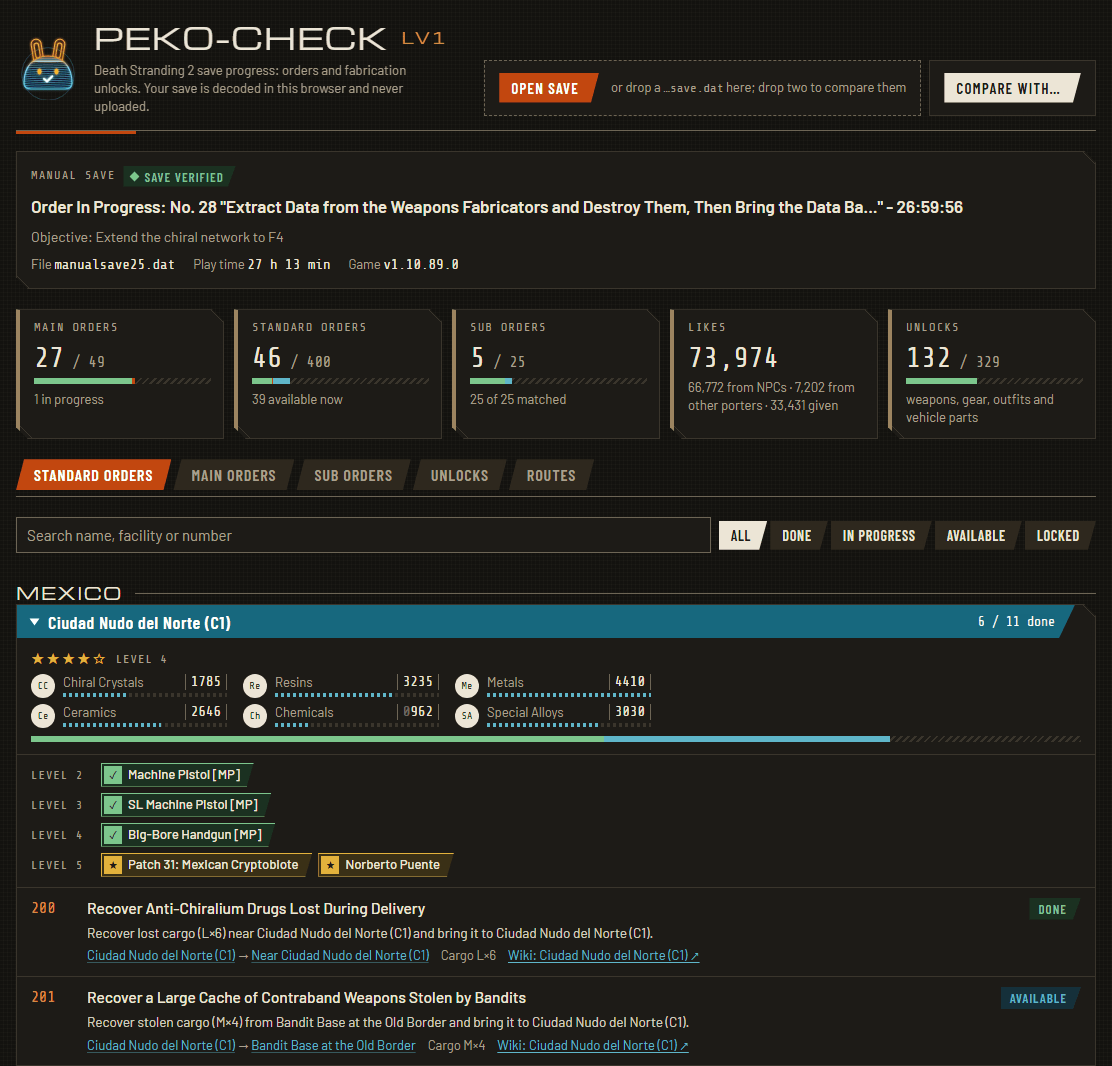
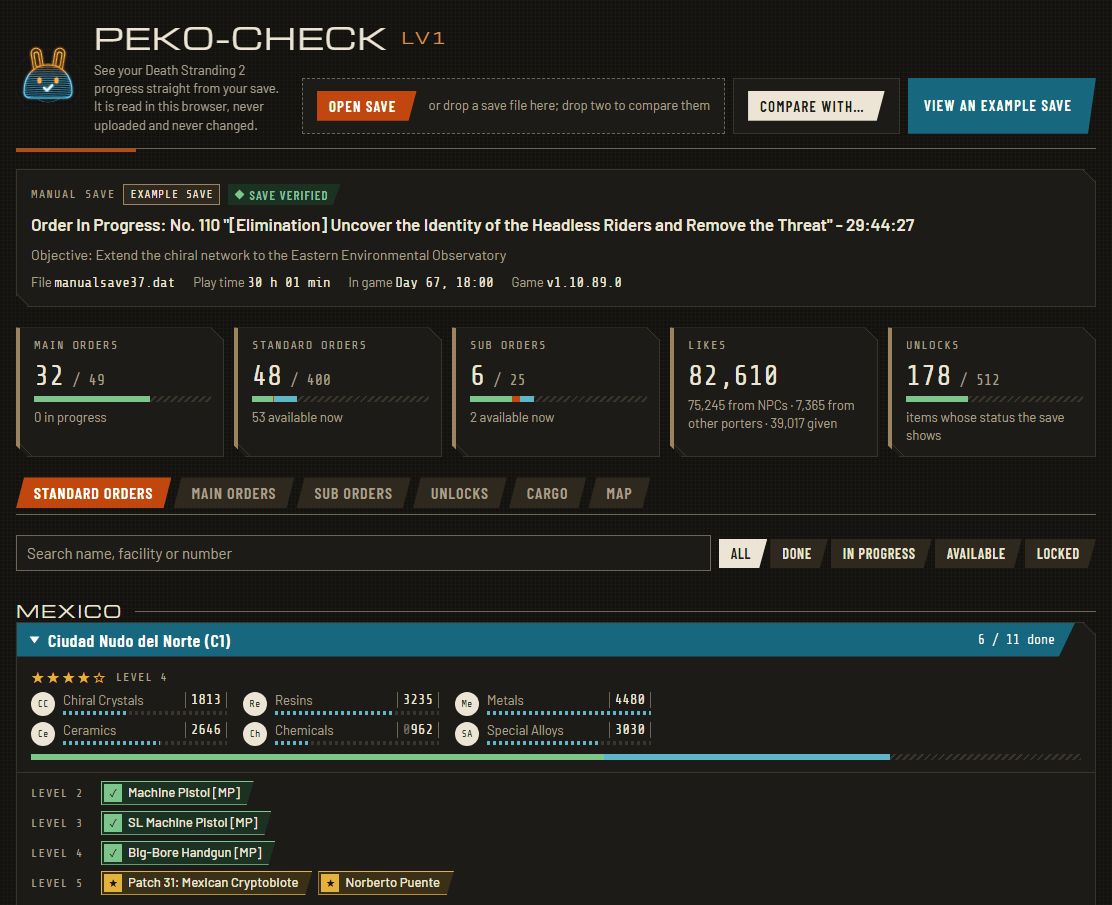
README: screenshots of the public version, map section

diff --git a/README.md b/README.md
@@ -55,7 +55,7 @@ Works with the PC (Steam) version of Death Stranding 2. Console saves are not su
 - **Cargo**: what Sam has equipped and in the backpack, and what is in your **private locker at each facility**,
   including how much of each material.
 - **APAS**: every enhancement, marked developed, available to develop, or not available yet.
-- **Routes**: the routes the in-game map shows as "previous routes", split into on foot and by vehicle.
+- **Map**: every facility with its order progress, and your routes, on our own blocky map (see [The map](#the-map)).
 - **Likes** from NPCs, from other porters and given, and the **in-game day and time** of the save.
 - **Save check**: each save is checked against its own built-in checksum, so a damaged file is spotted.
 - **Compare two saves**: which orders changed, what got unlocked and where you travelled in between, with a report
@@ -68,15 +68,17 @@ Works with the PC (Steam) version of Death Stranding 2. Console saves are not su
   <img src="assets/screenshots/standard-orders.png" width="49%" alt="Standard orders for Ciudad Nudo del Norte: connection level, material stock, level rewards and each order's state">
 </p>
 
-### About the pictures and the map
+### The map
 
-The screenshots above and below come from the developer's own copy, which also shows the game's item pictures, a
-small map per facility, and a full map. Those images are copyrighted game assets, so they are **not** included here.
-The viewer you can open from this page shows the same lists without the pictures, and draws your routes on a plain
-background instead of the game's map.
+The **Map** tab shows your progress on a blocky map of Australia or Mexico: every facility, ringed by how many of its
+standard orders you've done, and the routes you travelled since your last main order (on foot or by vehicle). Click
+a facility to jump to its orders.
 
-<p align="center"><img src="assets/screenshots/map.png" width="820" alt="The Australia map with facility icons ringed by order progress, routes by vehicle and the layers box"><br>
-<sub>The developer's copy: the game's map with facility icons and your routes. The viewer here draws the same routes without the map image.</sub></p>
+<p align="center"><img src="assets/screenshots/map.png" width="820" alt="Blocky map of Australia with surface types, facilities ringed by order progress and routes by vehicle"></p>
+
+The map and the item icons are our own drawings: the terrain is simplified from the game's map into blocks and
+surface types in our own colours, and every item gets a generic icon for its kind. The game's own map image and item
+pictures are copyrighted, so they aren't included.
 
 ## What it can read
 
